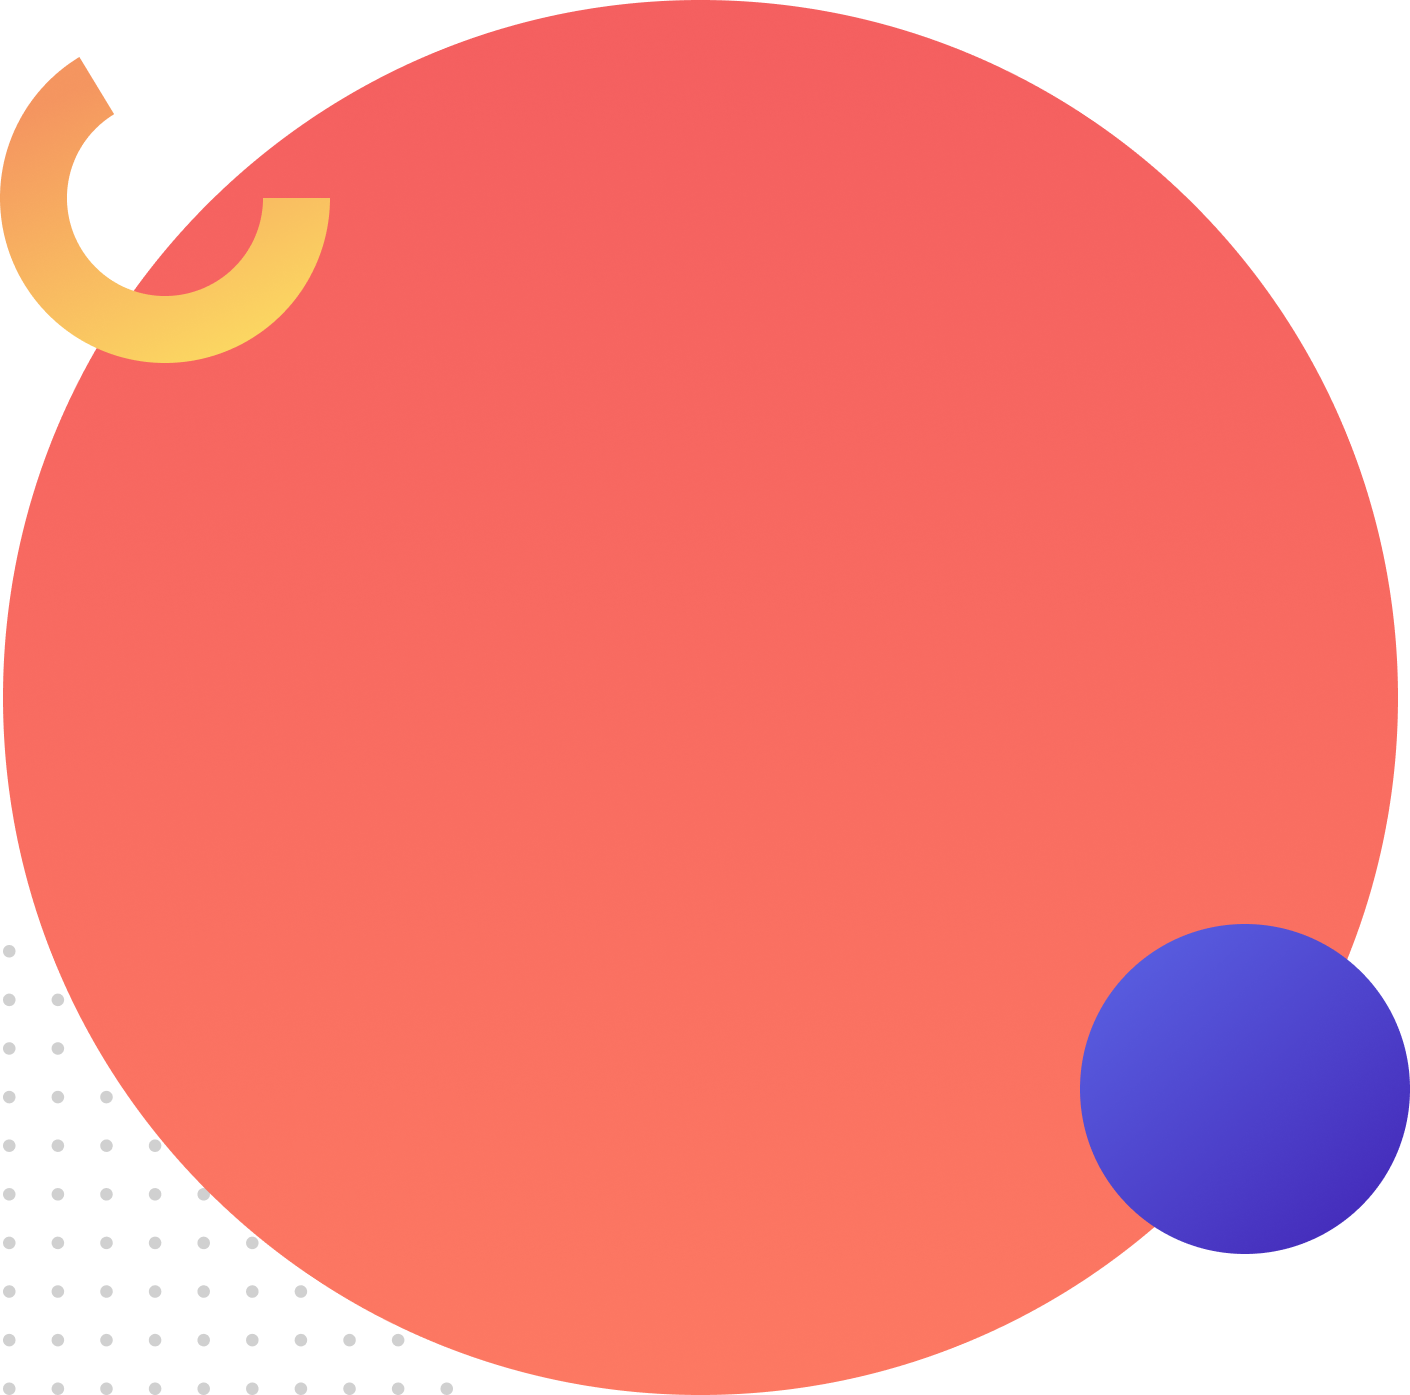
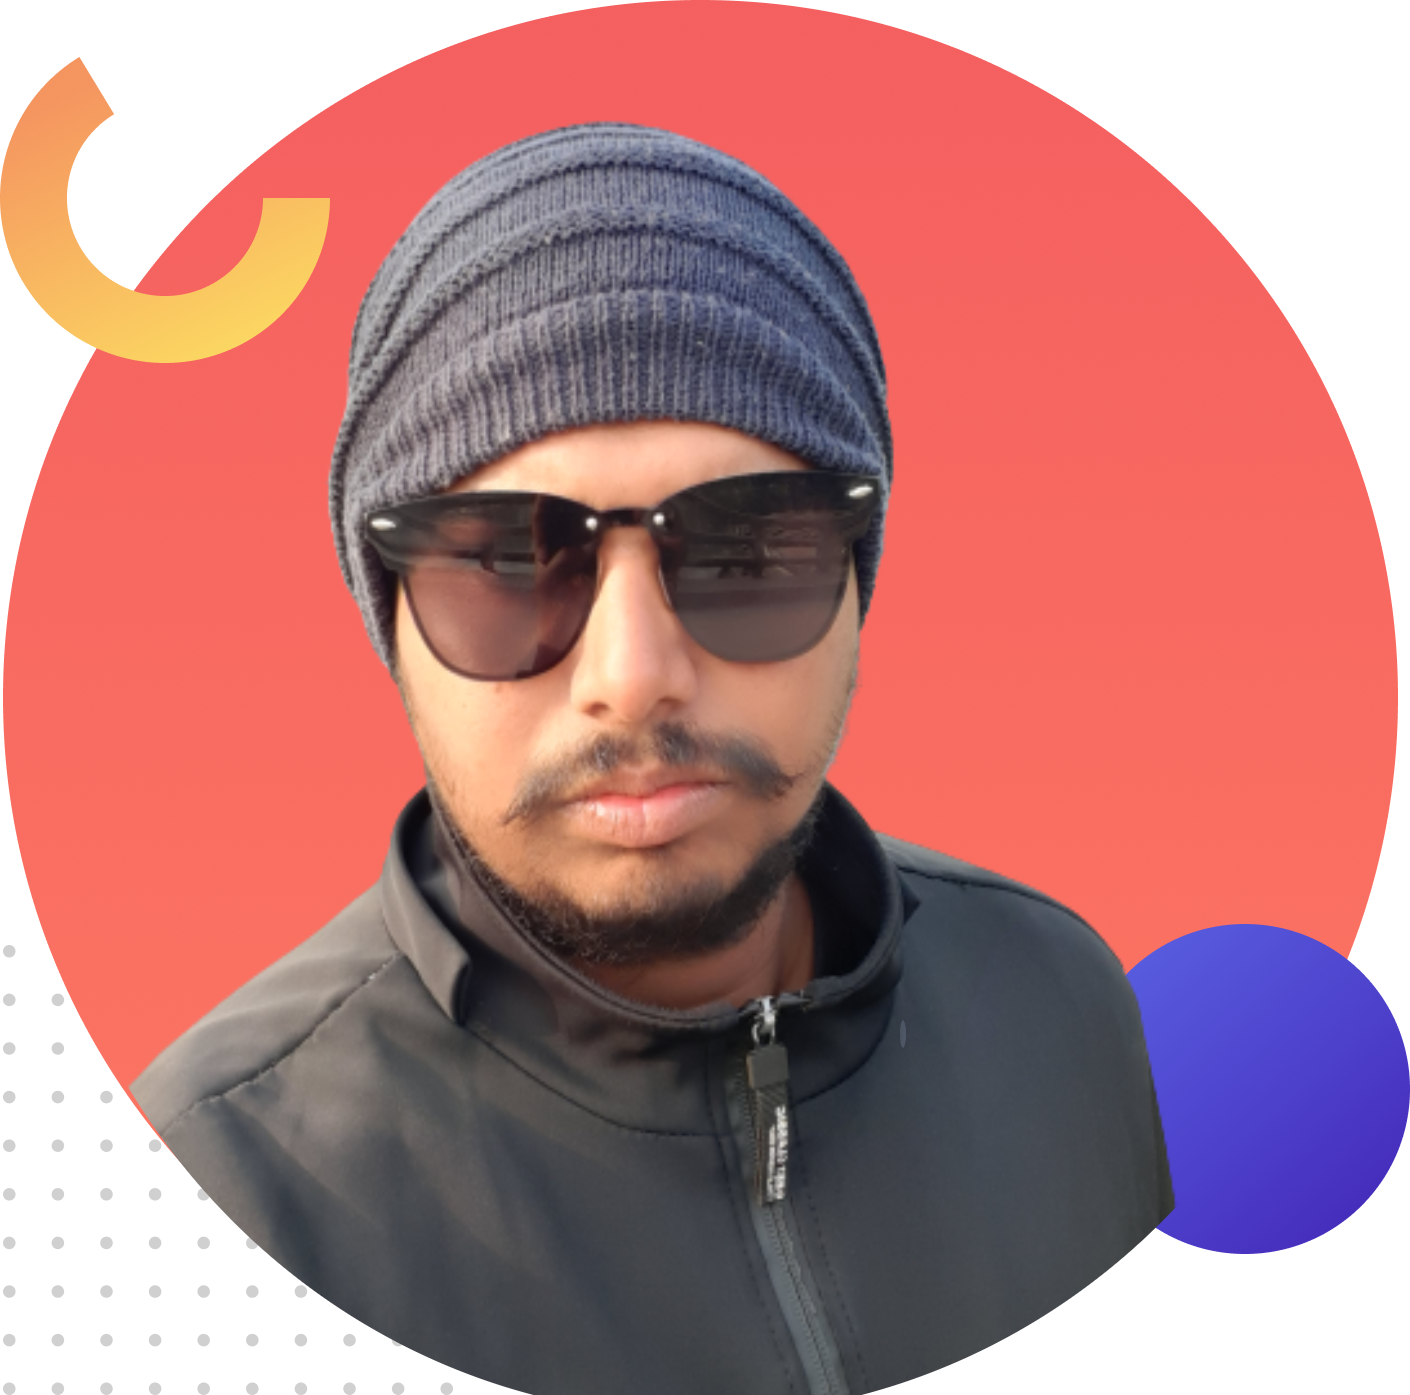
my first assigenment

diff --git a/index.html b/index.html
@@ -1,0 +1,69 @@
+<!DOCTYPE html>
+<html lang="en">
+<head>
+    <meta charset="UTF-8">
+    <meta name="viewport" content="width=device-width, initial-scale=1.0">
+    <title>first- assginment</title>
+    <link href="https://fonts.googleapis.com/css2?family=Poppins:ital,wght@0,700;1,500&display=swap" rel="stylesheet">
+    <link rel="stylesheet" href="css/style.css">
+</head>
+<body>
+    <!-- menu area start -->
+    <section class="heding">
+           <div class="manu-ber">
+               <ul class="unorder-list">
+                   <li class="list"><a class="list-link" href="#">About</a></li>
+                   <li class="list"><a class="list-link" href="#">Work</a></li>
+                   <li class="list"><a class="list-link"  href="#">protfolio</a></li>
+                   <li class="list"><a class="list-link"href="#">contact</a></li>
+               </ul>
+           </div>
+
+
+    </section>
+    <!-- menu area end -->
+    <!-- first area start-->
+    <section class="first-section">
+           <div class="hulf-width">
+                 <h1 class="header">HELLO,I'M</h1>
+                 <h2><span class="orangr-color">ROB DAVIOSON</span></h2>
+                 <P class="pragrape">A full Stack Allaround Designer Thatplacerat imassa consecteaus</P>
+                 <a class="link" href="www.google.com">Hire Me</a>
+
+
+
+           </div>
+           <div class="hulf-width">
+               <img  class="imge"src="imges/Group 33080.png">
+           </div>
+
+    </section>
+    <!-- first area end-->
+    <!-- second area start-->
+    <section class="about-area">
+          <div class="hulf-width">
+              <img class="imge" src="imges/Group 33080.png">
+            </div>
+          <div class="hulf-width">
+              <h1 class="about-header"> About</h1>
+              <p class="about-pra">Lorem Ipsum is simply dummy text of the printing and typesetting industry. Lorem Ipsum has been the industry's standard dummy text ever since the 1500s, when an unknown printer took a galley of type and scrambled it to make a type specimen book.</p>
+              <a  class="link" href="#">Downlod cv</a>
+          </div>
+    </section>
+    <!-- second area end-->
+    <!-- working area start-->
+      <section class="working-area">
+
+
+
+
+
+      </section>
+
+
+
+
+    <!-- workingarea end-->
+    
+</body>
+</html>

diff --git a/css/style.css b/css/style.css
@@ -1,0 +1,100 @@
+*{
+    margin:0px;
+    padding: 0px;
+    border: 0px;
+}
+
+.heding{
+    height: 70px;
+    width: 100%;
+  
+}
+
+manu-ber{
+    float: left;
+}
+.unorder-list{
+    list-style:none;
+    float:right;
+    
+}
+
+.list{
+    margin-left: 20px;
+    line-height: 70px;
+    float:left;
+}
+.list-link{
+    text-decoration: none;
+    color: black;
+    font-size: 30px;
+    font-family: 'Poppins', sans-serif;
+
+}
+/* menu area end */
+.first-section{
+    height: 600px;
+    margin-bottom: 30px;
+    background-color: tomato;
+}
+.hulf-width{
+    height: 400px;
+    width: 40%;
+    float: left;
+    margin: 60PX 40PX;
+    padding-left: 30px;
+}
+.header{
+    font-size: 50px;
+    font-family: 'Poppins', sans-serif;
+    margin-top: 10px;
+
+}
+.orangr-color{
+    font-size: 50px;
+    font-family: 'Poppins', sans-serif;
+    color: orangered;
+}
+
+.pragrape{
+    font-family: 'Poppins', sans-serif;
+    color: dimgray;
+    font-size: 14px;
+    padding-bottom: 20px;
+    
+    
+}
+
+.link{
+    text-decoration:none;
+    padding: 10px 20px;
+    background-image: linear-gradient( lightSalmon,tomato);
+    font-family: 'Poppins', sans-serif;
+    color:white;
+    margin-top: 20px;
+}
+
+.imge{
+    width: 100%;
+}
+/* first section end */
+.about-area{
+    height: 600px;
+    margin-bottom: 40px;
+    background-color: yellow;
+}
+
+.about-header{
+    font-size: 30px;
+    font-family: 'Poppins', sans-serif;
+    padding: 30px 5px;
+    
+}
+.about-pra{
+    font-size: 14px;
+    font-family: 'Poppins', sans-serif;
+    padding: 15px 5px;
+    color:dimgray;
+}
+
+/* second area end */
